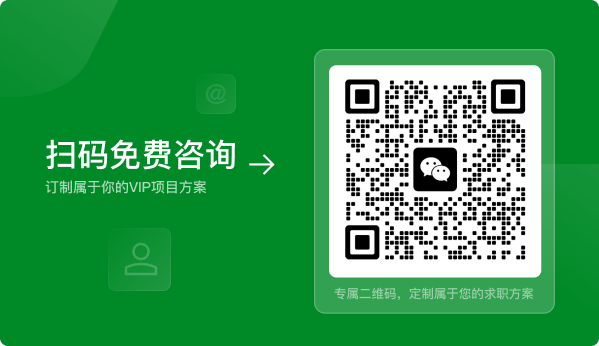
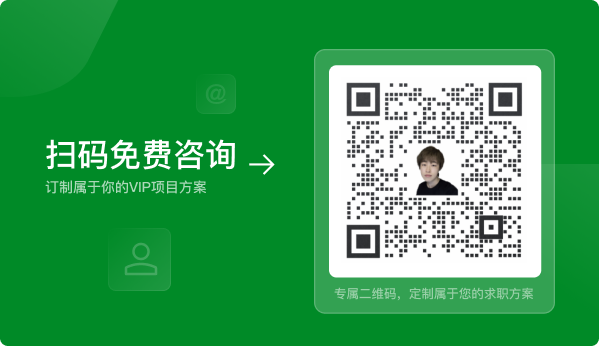
feat: 截止到0922的更新

Changed region(s): [[0.571, 0.2312, 0.9015, 0.7514]]

diff --git a/common/header.html b/common/header.html
@@ -98,6 +98,22 @@
         <!-- <script src="js/main.js"></script> -->
 
         <script id="mcjs">!function(c,h,i,m,p){m=c.createElement(h),p=c.getElementsByTagName(h)[0],m.async=1,m.src=i,p.parentNode.insertBefore(m,p)}(document,"script","https://chimpstatic.com/mcjs-connected/js/users/57916739c45c9dc951ca7d7b5/cccb513590823404054087bbb.js");</script>
+
+        <script type="text/javascript">
+          !function(){"use strict";!function(e,t){var n=e.amplitude||{_q:[],_iq:{}};if(n.invoked)e.console&&console.error&&console.error("Amplitude snippet has been loaded.");else{var r=function(e,t){e.prototype[t]=function(){return this._q.push({name:t,args:Array.prototype.slice.call(arguments,0)}),this}},s=function(e,t,n){return function(r){e._q.push({name:t,args:Array.prototype.slice.call(n,0),resolve:r})}},o=function(e,t,n){e[t]=function(){if(n)return{promise:new Promise(s(e,t,Array.prototype.slice.call(arguments)))}}},i=function(e){for(var t=0;t<m.length;t++)o(e,m[t],!1);for(var n=0;n<g.length;n++)o(e,g[n],!0)};n.invoked=!0;var u=t.createElement("script");u.type="text/javascript",u.integrity="sha384-x0ik2D45ZDEEEpYpEuDpmj05fY91P7EOZkgdKmq4dKL/ZAVcufJ+nULFtGn0HIZE",u.crossOrigin="anonymous",u.async=!0,u.src="https://cdn.amplitude.com/libs/analytics-browser-2.0.0-min.js.gz",u.onload=function(){e.amplitude.runQueuedFunctions||console.log("[Amplitude] Error: could not load SDK")};var a=t.getElementsByTagName("script")[0];a.parentNode.insertBefore(u,a);for(var c=function(){return this._q=[],this},p=["add","append","clearAll","prepend","set","setOnce","unset","preInsert","postInsert","remove","getUserProperties"],l=0;l<p.length;l++)r(c,p[l]);n.Identify=c;for(var d=function(){return this._q=[],this},f=["getEventProperties","setProductId","setQuantity","setPrice","setRevenue","setRevenueType","setEventProperties"],v=0;v<f.length;v++)r(d,f[v]);n.Revenue=d;var m=["getDeviceId","setDeviceId","getSessionId","setSessionId","getUserId","setUserId","setOptOut","setTransport","reset","extendSession"],g=["init","add","remove","track","logEvent","identify","groupIdentify","setGroup","revenue","flush"];i(n),n.createInstance=function(e){return n._iq[e]={_q:[]},i(n._iq[e]),n._iq[e]},e.amplitude=n}}(window,document)}();
+
+          if (document.location.hostname !== '127.0.0.1' && document.location.hostname !== 'localhost') {
+            try {
+              console.debug('Enabling event tracking')
+              
+              amplitude.init('bfa484ff20a6e50226f339cdfa335ab6');
+
+              console.debug('Event tracking enabled')
+            } catch (error) {
+              console.debug('Failed to enable event tracking')
+            }
+          }
+        </script>
   </head>
 
   <body>
@@ -189,7 +205,7 @@
     <div id="myModal" class="modal-pop">
       <div class="popup-content">
         <div class="showModalPc">
-          <img src="img/events/free-resources.png" />
+          <img src="img/events/free-resources.png"  style="max-height: 600px;"/>
         </div>
         <div class="showModalMobile">
           <img src="img/events/free-resourcesMobile.png" />
@@ -223,7 +239,6 @@
         var url = window.location.pathname;
         // var extension = url.substr(url.lastIndexOf('.') + 0);
         var extension = url.substring(url.lastIndexOf("/") + 1);
-        console.log("extension" + extension);
         // 根据后缀添加高亮效果
         $("nav ul li a").removeClass("href-active");
         // 根据后缀添加高亮效果
@@ -238,7 +253,8 @@
       });
     </script>
 
-    <script>
+    <!-- Pendo -->
+    <!-- <script>
       (function(apiKey){
           (function(p,e,n,d,o){var v,w,x,y,z;o=p[d]=p[d]||{};o._q=o._q||[];
           v=['initialize','identify','updateOptions','pageLoad','track'];for(w=0,x=v.length;w<x;++w)(function(m){
@@ -275,6 +291,6 @@
                   }
               });
       })('ffcc514b-15e1-4e38-7a13-9a49f1261466');
-      </script>
+      </script> -->
   </body>
 </html>

diff --git a/events_01.html b/events_01.html
@@ -527,11 +527,11 @@
     <!-- brand end -->
     <div class="customization-services showPc">
       <p class="theme-color">定制您的专属1对1服务计划</p>
-      <img src="img/QRcode/customization-servicesQR.png" />
+      <img src="img/QRcode/customization-servicesQR.jpeg" />
     </div>
     <div class="customization-services showMobile">
       <p class="theme-color">定制您的专属1对1服务计划</p>
-      <img src="img/QRcode/customization-servicesQR.png" />
+      <img src="img/QRcode/customization-servicesQR.jpeg" />
       <button class="popup-close-service">
         <span class="ti-close"></span>
       </button>

diff --git a/common/footer.html b/common/footer.html
@@ -130,8 +130,8 @@
                                         <p>微信公众号</p>
                                     </div>
                                     <div class="recent-post-thumb ml-25">
-                                        <img src="img/post/dabaie.png" alt="">
-                                        <p>扫码联系大白鹅老师</p>
+                                        <img src="img/post/jean.png" alt="">
+                                        <p>扫码联系Jean老师</p>
                                     </div>
                                 </div>
                             </div>

diff --git a/advisors.html b/advisors.html
@@ -376,7 +376,7 @@
                                 </div>
                             </div>
                             <div class=" mb-50 wow fadeInRight" data-wow-delay=".3s" style="visibility: visible; animation-delay: 0.3s; animation-name: fadeInRight;">
-                                <img style="width: 160px;" src="img/post/dabaie.png">
+                                <img style="width: 160px;" src="img/post/jean-2.jpeg">
                             </div>
                         </div>
                         <div class="col-xl-6 col-lg-5 col-md-10">
